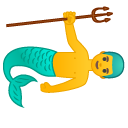
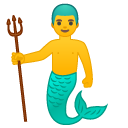
Last Release: CGC & SVG

diff --git a/2ANO/2SEMESTRE/CG/Trabalhos Práticos/1ºTrabalho (Canvas)/43025-CGC/js/cgc.js b/2ANO/2SEMESTRE/CG/Trabalhos Práticos/1ºTrabalho (Canvas)/43025-CGC/js/cgc.js
@@ -368,6 +368,7 @@ function hair(x,y)
 	
 	}
 }
+
 function head(x,y)  
 {
 	let h = document.getElementById("acanvas").getContext("2d");
@@ -380,7 +381,7 @@ function head(x,y)
 	{
         //Pescoço
         h.beginPath();
-            h.fillStyle="pink";
+            h.fillStyle="#ffc61a";
             h.moveTo(this.x,this.y);
             h.lineTo(this.x,this.y-18);
             h.lineTo(this.x-18,this.y-18);
@@ -398,10 +399,21 @@ function head(x,y)
         h.fill();
 		//Boca
         h.beginPath();
-            h.arcTo(this.x-18,this.y-28,this.x-16,this.y-28,6);
             h.moveTo(this.x-26,this.y-12);
             h.quadraticCurveTo(this.x-22,this.y-14,this.x-22,this.y-16);
-        h.stroke();
+		h.stroke();
+		//Olho
+		h.beginPath();
+			h.moveTo(this.x-18,this.y-28)
+			h.lineWidth=5;
+			h.lineTo(this.x-16,this.y-28);
+			h.lineWidth=1;
+		h.stroke();
+		//Sobrancelha
+		h.beginPath();
+			h.moveTo(this.x-18,this.y-32);
+			h.quadraticCurveTo(this.x-16,this.y-34,this.x-14, this.y-32);
+		h.stroke();		
 	}
 
 	this.update = function()
@@ -415,14 +427,8 @@ function head(x,y)
 function body(x,y) 
 {
 	let body = document.getElementById("acanvas").getContext("2d");
-	let body_gradient = body.createLinearGradient(0,330,acanvas.width,480);
-			body_gradient.addColorStop(0.33,"#ffb833");
-			body_gradient.addColorStop(0.66,"#ffa500");
-
 	let calcoes = document.getElementById("acanvas").getContext("2d");		
-	let calcoes_gradient = calcoes.createLinearGradient(0,330,acanvas.width,480);
-		calcoes_gradient.addColorStop(0.33,"#808080");
-		calcoes_gradient.addColorStop(0.66,"#666666");
+
 
 	this.x=x;  
 	this.y=y;
@@ -432,7 +438,7 @@ function body(x,y)
 	{
         //-->Blusa
         body.beginPath();
-			body.fillStyle=body_gradient;
+			body.fillStyle="#ff8000";
 			body.moveTo(this.x ,this.y);
 			body.lineTo(this.x+16,this.y-2);
 			body.quadraticCurveTo(this.x+32,this.y+2,this.x+40,this.y-40);
@@ -449,7 +455,7 @@ function body(x,y)
             
         //--> Calções
         calcoes.beginPath();
-        calcoes.fillStyle=calcoes_gradient;
+        calcoes.fillStyle="#666666";
 			calcoes.moveTo(this.x,this.y);
 			calcoes.quadraticCurveTo(this.x-4,this.y+10,this.x+4,this.y+30);
 			calcoes.quadraticCurveTo(this.x+10,this.y+32,this.x+20,this.y+28);
@@ -480,7 +486,7 @@ function r_leg(x,y)
 	this.draw = function()
 	{
         rLeg.beginPath();
-        rLeg.fillStyle="pink";
+        rLeg.fillStyle="#ffc61a";
         rLeg.moveTo(this.x,this.y);
         rLeg.lineTo(this.x-6,this.y+22);
         rLeg.quadraticCurveTo(this.x-10,this.y+28,this.x,this.y+34);
@@ -508,7 +514,7 @@ function l_leg(x,y)
 	this.draw = function()
 	{
 		lLeg.beginPath();
-        	lLeg.fillStyle="pink";
+        	lLeg.fillStyle="#ffc61a";
             lLeg.moveTo(this.x,this.y);
             lLeg.lineTo(this.x+6,this.y+6);
             lLeg.lineTo(this.x+6,this.y+6);
@@ -537,7 +543,7 @@ function r_arm(x,y)
 	this.draw = function()
 	{
 		rArm.beginPath();
-			rArm.fillStyle="pink";
+			rArm.fillStyle="#ffc61a";
 			rArm.moveTo(this.x,this.y);
 			rArm.lineTo(this.x-12,this.y+4);
 			rArm.lineTo(this.x-16,this.y+30);
@@ -571,7 +577,7 @@ function l_arm(x,y)
 	this.draw = function()
 	{
         lArm.beginPath();
-			lArm.fillStyle="pink";
+			lArm.fillStyle="#ffc61a";
 			lArm.moveTo(this.x,this.y);
 			lArm.quadraticCurveTo(this.x+12,this.y+10,this.x+52,this.y+21);
 			lArm.quadraticCurveTo(this.x+67,this.y+16,this.x+32,this.y+6);
@@ -658,9 +664,15 @@ function object(x,y)
 
 	let prancha = document.getElementById("acanvas").getContext("2d");
 	
-	let prancha_gradient = prancha.createLinearGradient(200, 0, 860, 0);
-		prancha_gradient.addColorStop(0.33, "#ff4d4d");
-		prancha_gradient.addColorStop(0.66, "#ff1a1a");
+	let prancha_gradient = prancha.createLinearGradient(this.x+25,this.y+5, this.x+25,this.y-35);
+		prancha_gradient.addColorStop(0.20, "yellow");
+		prancha_gradient.addColorStop(0.20, "seagreen");
+		prancha_gradient.addColorStop(0.30, "seagreen");
+		prancha_gradient.addColorStop(0.30, "white");
+		prancha_gradient.addColorStop(0.50, "white");
+		prancha_gradient.addColorStop(0.50, "seagreen");
+		prancha_gradient.addColorStop(0.60, "seagreen");
+		prancha_gradient.addColorStop(0.60, "yellow");
 	
 	this.draw = function()
 	{

diff --git a/2ANO/2SEMESTRE/CG/Trabalhos Práticos/1ºTrabalho (Canvas)/43025-CGC/index.html b/2ANO/2SEMESTRE/CG/Trabalhos Práticos/1ºTrabalho (Canvas)/43025-CGC/index.html
@@ -13,6 +13,6 @@
     </style>
     <body onload="main();">
         <h1>Trabalho de 43025 - CGC</h1>
-        <canvas id="acanvas" width="1060" height="530" class="trabalho"/>
+        <canvas id="acanvas" width="1060" height="530" class="trabalho">
     </body>
 </html>
